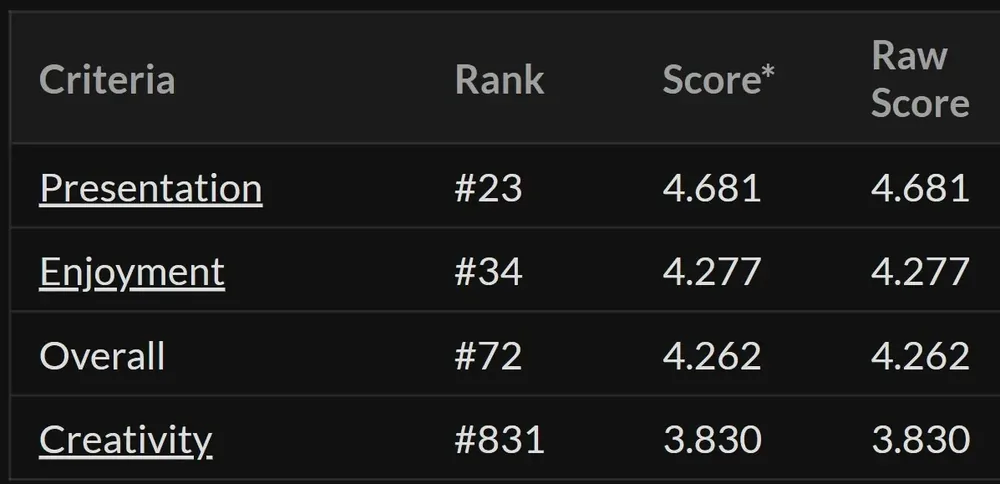
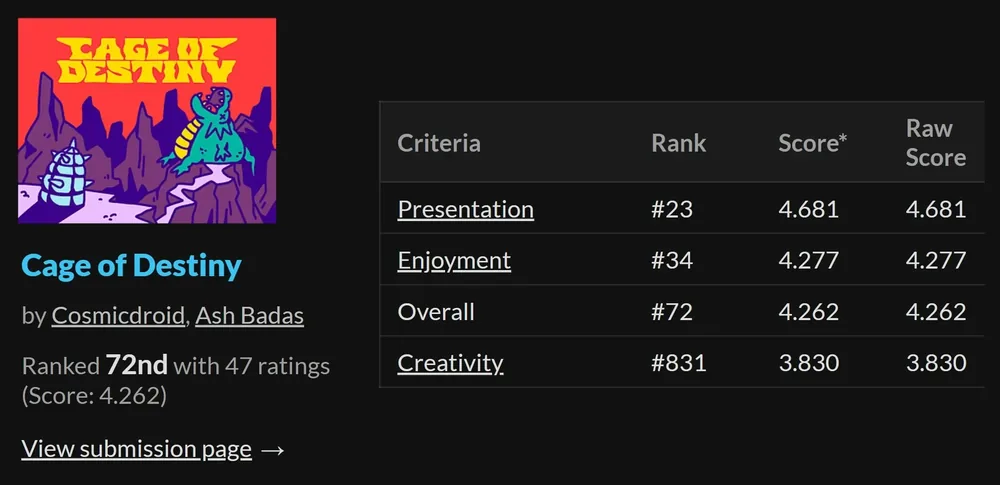
Locals Only: rodeo circle is the profile, sketches cropped to fill their boxes; Cage of Destiny: full results image, laid out side by side to fill its box
Claude-Session: https://claude.ai/code/session_01GuTk6iHMowW66Sb6Jkomi9

diff --git a/site/projects/localsonly.html b/site/projects/localsonly.html
@@ -50,16 +50,16 @@
 </section>
 
 <section class="bento" style="--rows:4">
-<button type="button" class="b-cell b-art" style="--c:1 / 3;--r:1 / 3;--m:2;--ar:2 / 2" data-full="../assets/img/localsonly/union-made.webp" aria-label="Enlarge: Union made, Locals Only: the cat lineman and a rat"><img src="../assets/img/localsonly/union-made-sm.webp" alt="Union made, Locals Only: the cat lineman and a rat" loading="lazy"></button>
+<button type="button" class="b-cell b-art" style="--c:1 / 3;--r:1 / 3;--m:2;--ar:2 / 2;--pad-art:6px" data-full="../assets/img/localsonly/rodeo.webp" aria-label="Enlarge: Lineman's Rodeo 2025: the cat up a power pole"><img src="../assets/img/localsonly/rodeo-sm.webp" alt="Lineman's Rodeo 2025: the cat up a power pole" loading="lazy"></button>
 <div class="b-cell b-text" style="--c:3 / 7;--r:1 / 2;--m:2;--ar:4 / 1"><div class="b-copy"><p>A cartoon cat lineman for Locals Only, made for the crews who keep the power on: hard hat, rubber gloves, bucket truck and a lightning bolt to ride.</p><p>Shirts and stickers, plus a design for the 2025 Lineman's Rodeo, each one going from a quick sketch to the final art.</p></div><dl class="b-facts"><div><dt>type</dt><dd>merch design</dd></div><div><dt>year</dt><dd>2025</dd></div></dl></div>
-<button type="button" class="b-cell b-art" style="--c:3 / 5;--r:2 / 4;--m:2;--ar:2 / 2" data-full="../assets/img/localsonly/rodeo.webp" aria-label="Enlarge: Lineman's Rodeo 2025: the cat up a power pole"><img src="../assets/img/localsonly/rodeo-sm.webp" alt="Lineman's Rodeo 2025: the cat up a power pole" loading="lazy"></button>
+<button type="button" class="b-cell b-art" style="--c:3 / 5;--r:2 / 4;--m:2;--ar:2 / 2" data-full="../assets/img/localsonly/union-made.webp" aria-label="Enlarge: Union made, Locals Only: the cat lineman and a rat"><img src="../assets/img/localsonly/union-made-sm.webp" alt="Union made, Locals Only: the cat lineman and a rat" loading="lazy"></button>
 <button type="button" class="b-cell b-art" style="--c:5 / 7;--r:2 / 3;--m:2;--ar:2 / 1" data-full="../assets/img/localsonly/truck.webp" aria-label="Enlarge: The cat in a bucket truck"><img src="../assets/img/localsonly/truck-sm.webp" alt="The cat in a bucket truck" loading="lazy"></button>
 <button type="button" class="b-cell b-art" style="--c:5 / 6;--r:3 / 4;--m:1;--ar:1 / 1" data-full="../assets/img/localsonly/pole-nap.webp" aria-label="Enlarge: The cat napping under a Locals Only power pole"><img src="../assets/img/localsonly/pole-nap-sm.webp" alt="The cat napping under a Locals Only power pole" loading="lazy"></button>
 <button type="button" class="b-cell b-art" style="--c:6 / 7;--r:3 / 4;--m:1;--ar:1 / 1;background:#ffffff" data-full="../assets/img/localsonly/sketch-pole.webp" aria-label="Enlarge: Sketch for the napping cat"><img src="../assets/img/localsonly/sketch-pole-sm.webp" alt="Sketch for the napping cat" loading="lazy"><span class="b-cap">sketch</span></button>
 <button type="button" class="b-cell b-art" style="--c:1 / 2;--r:3 / 5;--m:1;--ar:1 / 2" data-full="../assets/img/localsonly/gloves.webp" aria-label="Enlarge: The cat in his rubber gloves"><img src="../assets/img/localsonly/gloves-sm.webp" alt="The cat in his rubber gloves" loading="lazy"></button>
 <button type="button" class="b-cell b-art" style="--c:2 / 3;--r:3 / 5;--m:1;--ar:1 / 2;background:#ffffff" data-full="../assets/img/localsonly/glove-sign.webp" aria-label="Enlarge: A gloved hand making the Locals Only sign"><img src="../assets/img/localsonly/glove-sign-sm.webp" alt="A gloved hand making the Locals Only sign" loading="lazy"></button>
-<button type="button" class="b-cell b-art" style="--c:3 / 4;--r:4 / 5;--m:1;--ar:1 / 1" data-full="../assets/img/localsonly/sketch-rodeo.webp" aria-label="Enlarge: Sketch for the Lineman's Rodeo design"><img src="../assets/img/localsonly/sketch-rodeo-sm.webp" alt="Sketch for the Lineman's Rodeo design" loading="lazy"><span class="b-cap">sketch</span></button>
-<button type="button" class="b-cell b-art" style="--c:4 / 5;--r:4 / 5;--m:1;--ar:1 / 1;background:#ffffff" data-full="../assets/img/localsonly/sketch-union.webp" aria-label="Enlarge: Sketch for the Union made design"><img src="../assets/img/localsonly/sketch-union-sm.webp" alt="Sketch for the Union made design" loading="lazy"><span class="b-cap">sketch</span></button>
+<button type="button" class="b-cell b-art" style="--c:3 / 4;--r:4 / 5;--m:1;--ar:1 / 1;--pad-art:4px" data-full="../assets/img/localsonly/sketch-rodeo.webp" aria-label="Enlarge: Sketch for the Lineman's Rodeo design"><img src="../assets/img/localsonly/sketch-rodeo-sm.webp" alt="Sketch for the Lineman's Rodeo design" loading="lazy"><span class="b-cap">sketch</span></button>
+<button type="button" class="b-cell b-art" style="--c:4 / 5;--r:4 / 5;--m:1;--ar:1 / 1;--pad-art:4px;background:#ffffff" data-full="../assets/img/localsonly/sketch-union.webp" aria-label="Enlarge: Sketch for the Union made design"><img src="../assets/img/localsonly/sketch-union-sm.webp" alt="Sketch for the Union made design" loading="lazy"><span class="b-cap">sketch</span></button>
 <button type="button" class="b-cell b-art" style="--c:5 / 7;--r:4 / 5;--m:2;--ar:2 / 1" data-full="../assets/img/localsonly/bolt.webp" aria-label="Enlarge: The cat riding a lightning bolt"><img src="../assets/img/localsonly/bolt-sm.webp" alt="The cat riding a lightning bolt" loading="lazy"></button>
 </section>
 <section class="pager">

diff --git a/site/projects/cage-of-destiny.html b/site/projects/cage-of-destiny.html
@@ -56,7 +56,7 @@
 <button type="button" class="b-cell b-art" style="--c:1 / 3;--r:4 / 6;--m:2;--ar:2 / 2" data-full="../assets/img/cage-of-destiny/cutscene.webp" aria-label="Enlarge: A cutscene: the king, the princess and the lizard"><img src="../assets/img/cage-of-destiny/cutscene.webp" alt="A cutscene: the king, the princess and the lizard" loading="lazy"><span class="b-cap">cutscene</span></button>
 <button type="button" class="b-cell b-art" style="--c:3 / 5;--r:4 / 5;--m:2;--ar:8 / 5" data-full="../assets/img/cage-of-destiny/sprites.webp" aria-label="Enlarge: Characters and items"><img src="../assets/img/cage-of-destiny/sprites.webp" alt="Characters and items" loading="lazy"><span class="b-cap">sprites</span></button>
 <button type="button" class="b-cell b-art" style="--c:3 / 5;--r:5 / 6;--m:2;--ar:4 / 1" data-full="../assets/img/cage-of-destiny/title.webp" aria-label="Enlarge: Title lettering"><img src="../assets/img/cage-of-destiny/title-sm.webp" alt="Title lettering" loading="lazy"><span class="b-cap">title</span></button>
-<button type="button" class="b-cell b-art" style="--c:5 / 7;--r:5 / 6;--m:2;--ar:6 / 5;--pad-art:6px;background:#111111" data-full="../assets/img/cage-of-destiny/ranking.webp" aria-label="Enlarge: The jam results"><img src="../assets/img/cage-of-destiny/ranking-sm.webp" alt="The jam results" loading="lazy"><span class="b-cap">results</span></button>
+<button type="button" class="b-cell b-art" style="--c:5 / 7;--r:5 / 6;--m:2;--ar:2 / 1;--pad-art:0px;background:#111111" data-full="../assets/img/cage-of-destiny/ranking.webp" aria-label="Enlarge: The jam results"><img src="../assets/img/cage-of-destiny/ranking-sm.webp" alt="The jam results" loading="lazy"><span class="b-cap">results</span></button>
 </section>
 <section class="pager">
   <a href="../work.html">← all works</a>

diff --git a/site/js/projects.js b/site/js/projects.js
@@ -15,7 +15,7 @@ window.PROJECTS = [
   { slug: "all-the-cores", title: "All the Cores and More", type: "work", tag: "Merch design", year: "2026", cover: "assets/img/all-the-cores/cover.webp", page: "projects/all-the-cores.html", featured: true },   // CHECK year
   { slug: "no-known-weakness", title: "No Known Weakness", type: "work", tag: "Album art", year: "2026", cover: "assets/img/no-known-weakness/final-sm.webp", page: "projects/no-known-weakness.html", featured: true },   // CHECK year
   { slug: "catacomb", title: "Catacomb", type: "work", tag: "Jersey design", year: "2026", cover: "assets/img/catacomb/dragon-sm.webp", page: "projects/catacomb.html" },   // CHECK year
-  { slug: "localsonly", title: "Locals Only", type: "work", tag: "Merch design", year: "2025", cover: "assets/img/localsonly/union-made-sm.webp", page: "projects/localsonly.html" },   // CHECK year
+  { slug: "localsonly", title: "Locals Only", type: "work", tag: "Merch design", year: "2025", cover: "assets/img/localsonly/rodeo-sm.webp", page: "projects/localsonly.html" },   // CHECK year
   { slug: "imprint-rolling", title: "Imprint Rolling", type: "work", tag: "Branding, illustration", year: "2025", cover: "assets/img/imprint-rolling/cover.webp", page: "projects/imprint-rolling.html" },   // CHECK year
   { slug: "jfgprintco", title: "JFGprintco", type: "work", tag: "Branding, mural", year: "2025", cover: "assets/img/jfgprintco/profile-sm.webp", page: "projects/jfgprintco.html" },   // CHECK year
   { slug: "terp-wizard", title: "Terp Wizard", type: "work", tag: "Merch design", year: "2026", cover: "assets/img/terp-wizard/lab-cover.webp", page: "projects/terp-wizard.html", featured: true },   // CHECK year

diff --git a/tools/build.py b/tools/build.py
@@ -848,7 +848,7 @@ bento("cage-of-destiny", "Cage of Destiny", "Cage of Destiny, a game jam game by
         C("art", "cutscene", "A cutscene: the king, the princess and the lizard", c="1 / 3", r="4 / 6", cap="cutscene"),
         C("art", "sprites", "Characters and items", c="3 / 5", r="4 / 5", ar="8 / 5", cap="sprites"),
         C("art", "title", "Title lettering", c="3 / 5", r="5 / 6", m=2, ar="4 / 1", cap="title"),
-        C("art", "ranking", "The jam results", c="5 / 7", r="5 / 6", m=2, ar="6 / 5", cap="results", pad="6px"),
+        C("art", "ranking", "The jam results", c="5 / 7", r="5 / 6", m=2, ar="2 / 1", cap="results", pad="0px", bg="#111111"),
       ], 5)
 
 bento("brutal-burger-quest", "Brutal Burger Quest", "Game art by cosmicdroid for Brutal Burger Quest: the player, enemies, mage bosses, tiles and effects.",
@@ -972,16 +972,16 @@ bento("localsonly", "Locals Only", "Merch design by cosmicdroid for Locals Only.
       ["A cartoon cat lineman for Locals Only, made for the crews who keep the power on: hard hat, rubber gloves, bucket truck and a lightning bolt to ride.",
        "Shirts and stickers, plus a design for the 2025 Lineman's Rodeo, each one going from a quick sketch to the final art."],
       [
-        C("art", "union-made", "Union made, Locals Only: the cat lineman and a rat", c="1 / 3", r="1 / 3", m=2),
+        C("art", "rodeo", "Lineman's Rodeo 2025: the cat up a power pole", c="1 / 3", r="1 / 3", m=2, pad="6px"),
         C("text", c="3 / 7", r="1 / 2", m=2, facts=[("type", "merch design"), ("year", "2025")]),
-        C("art", "rodeo", "Lineman's Rodeo 2025: the cat up a power pole", c="3 / 5", r="2 / 4", m=2),
+        C("art", "union-made", "Union made, Locals Only: the cat lineman and a rat", c="3 / 5", r="2 / 4", m=2),
         C("art", "truck", "The cat in a bucket truck", c="5 / 7", r="2 / 3", m=2, ar="2 / 1"),
         C("art", "pole-nap", "The cat napping under a Locals Only power pole", c="5 / 6", r="3 / 4"),
         C("art", "sketch-pole", "Sketch for the napping cat", c="6 / 7", r="3 / 4", cap="sketch"),
         C("art", "gloves", "The cat in his rubber gloves", c="1 / 2", r="3 / 5", ar="1 / 2"),
         C("art", "glove-sign", "A gloved hand making the Locals Only sign", c="2 / 3", r="3 / 5", ar="1 / 2"),
-        C("art", "sketch-rodeo", "Sketch for the Lineman's Rodeo design", c="3 / 4", r="4 / 5", cap="sketch"),
-        C("art", "sketch-union", "Sketch for the Union made design", c="4 / 5", r="4 / 5", cap="sketch"),
+        C("art", "sketch-rodeo", "Sketch for the Lineman's Rodeo design", c="3 / 4", r="4 / 5", cap="sketch", pad="4px"),
+        C("art", "sketch-union", "Sketch for the Union made design", c="4 / 5", r="4 / 5", cap="sketch", pad="4px"),
         C("art", "bolt", "The cat riding a lightning bolt", c="5 / 7", r="4 / 5", m=2, ar="2 / 1"),
       ], 4)
 
